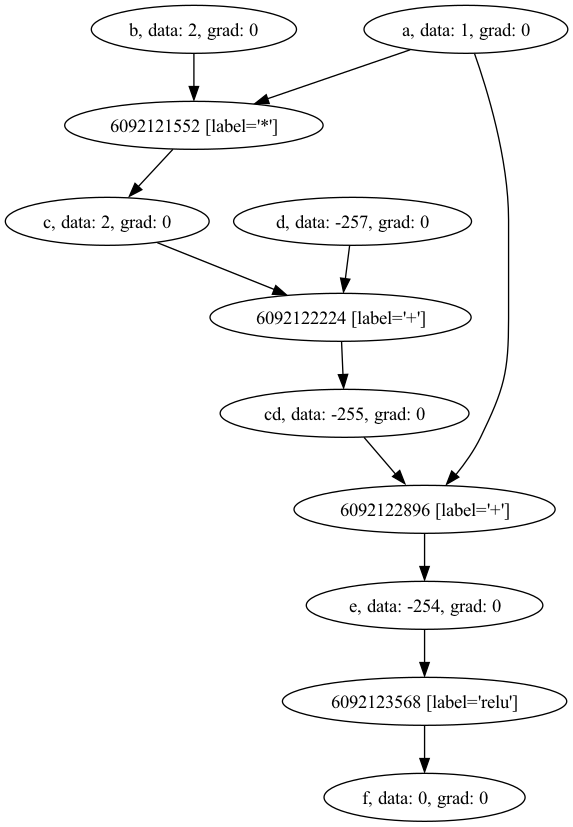
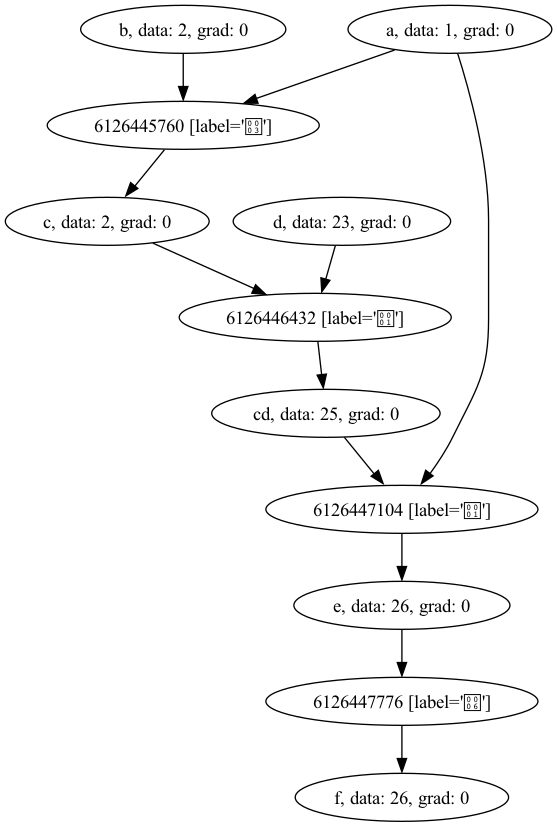
Add _backward func to each node with an operator, still need to test

diff --git a/Value.hpp b/Value.hpp
@@ -3,10 +3,20 @@
 
 using namespace std;
 
+enum Operator {
+    NONE,
+    ADD,
+    SUB,
+    MUL,
+    DIV,
+    POW,
+    RELU
+};
+
 class Value {
     public: 
-        Value(double data, string label, string op, vector<Value*> prev);
-        Value(double data, string op, vector<Value*> prev);
+        Value(double data, string label, Operator op, vector<Value*> prev);
+        Value(double data, Operator op, vector<Value*> prev);
         Value(double data, string label);
         Value(double data);
         friend ostream &operator<<(ostream &os, const Value &value);
@@ -24,38 +34,40 @@ class Value {
         // Value operator -(double const n);
         Value operator /(Value &obj);
         Value power(Value &obj);
-        Value power(double n);
+        // Value power(double n);
         Value relu();
     private:
-        void addBackward(Value &other, Value const &out);
-        void mulBackward(Value &other, Value const &out);
-        void subBackward(Value &other, Value const &out);
-        void powerBackward(Value &other, Value const &out);
-        void powerBackward(double const n, Value const out);
-        void reluBackward(Value const &out);
+        // void addBackward(Value &other, Value const &out);
+        // void mulBackward(Value &other, Value const &out);
+        // void subBackward(Value &other, Value const &out);
+        // void powerBackward(Value &other, Value const &out);
+        // // void powerBackward(double const n, Value const out);
+        // void reluBackward(Value const &out);
+        function<void()> _backward;
 };
 
-void Value::addBackward(Value &other, Value const &out) {
-    other.grad = 1.0 * out.grad;
-    this->grad = 1.0 * out.grad;
-}
-void Value::mulBackward(Value &other, Value const &out) {
-    other.grad = this->data * out.grad;
-    this->grad = other.data * out.grad;
-}
-void Value::subBackward(Value &other, Value const &out) {
-    other.grad = 1.0 * out.grad;
-    this->grad = 1.0 * out.grad;
-}
-void Value::powerBackward(double const n, Value const out) {
-    this->grad = (n) * pow(out.grad, n-1);
-}
-// this.data raised to other.data, producing out.data
-void Value::powerBackward(Value &other, Value const &out) {
-    this->grad = (other.data) * pow(this->data, other.data-1) * out.grad;
-    other.grad = pow(this->data, other.data) * log(this->data) * out.grad;
-}
 
-void Value::reluBackward(Value const &out) {
-    this->grad = out.data > 0 ? 1 : 0;
-}
+// void Value::addBackward(Value &other, Value const &out) {
+//     other.grad = 1.0 * out.grad;
+//     this->grad = 1.0 * out.grad;
+// }
+// void Value::mulBackward(Value &other, Value const &out) {
+//     other.grad = this->data * out.grad;
+//     this->grad = other.data * out.grad;
+// }
+// void Value::subBackward(Value &other, Value const &out) {
+//     other.grad = 1.0 * out.grad;
+//     this->grad = 1.0 * out.grad;
+// }
+// void Value::powerBackward(double const n, Value const out) {
+//     this->grad = (n) * pow(out.grad, n-1);
+// }
+// this.data raised to other.data, producing out.data
+// void Value::powerBackward(Value &other, Value const &out) {
+//     this->grad = (other.data) * pow(this->data, other.data-1) * out.grad;
+//     other.grad = pow(this->data, other.data) * log(this->data) * out.grad;
+// }
+
+// void Value::reluBackward(Value const &out) {
+//     this->grad = out.data > 0 ? 1 : 0;
+// }

diff --git a/Value.cpp b/Value.cpp
@@ -12,14 +12,14 @@ using namespace std;
 
 
 
-Value::Value(double data, string label, string op, vector<Value*> prev) {
+Value::Value(double data, string label, Operator op, vector<Value*> prev) {
     this->data = data;
     this->grad = 0;
     this->op = op; 
     this->prev = prev; // by value
     this->label = label; 
 }
-Value::Value(double data, string op, vector<Value*> prev) {
+Value::Value(double data, Operator op, vector<Value*> prev) {
     this->data = data;
     this->grad = 0;
     this->op = op;
@@ -48,7 +48,12 @@ string Value::getGraphName() {
 }
 
 Value Value::operator +(Value &obj) {
-    Value out = Value(this->data + obj.data, "+", vector<Value*>{this, (Value*) &obj});
+    Value out = Value(this->data + obj.data, ADD, vector<Value*>{this, (Value*) &obj});
+    
+    this->_backward = [this, &obj, out]() {
+        obj.grad = 1.0 * out.grad;
+        this->grad = 1.0 * out.grad;
+    };
 
     return out;
 }
@@ -56,35 +61,55 @@ Value Value::operator +(Value &obj) {
 //     return Value(this->data + n);
 // }
 Value Value::operator *(Value &obj) {
-    return Value(this->data * obj.data, "*", vector<Value*>{this, (Value*) &obj});
+    Value out = Value(this->data * obj.data, MUL, vector<Value*>{this, (Value*) &obj});
+    this->_backward = [this, &obj, out]() {
+        obj.grad = this->data * out.grad;
+        this->grad = obj.data * out.grad;
+    };
+    return out;
 }
 // Value Value::operator *(double const n) {
 //     return Value(this->data * n);
 // }
 Value Value::operator -(Value &obj) {
-    return Value(this->data - obj.data, "-", vector<Value*>{this, (Value*) &obj});
+    Value out = Value(this->data - obj.data, SUB, vector<Value*>{this, (Value*) &obj});
+    this->_backward = [this, &obj, out]() {
+        obj.grad = 1.0 * out.grad;
+        this->grad = 1.0 * out.grad;
+    };
+    return out;
 }
 // Value Value::operator -(double const n) {
 //     return Value(this->data - n);
 // }
 Value Value::operator /(Value &obj) {
     Value l = *this;
-    Value r = obj.power(1.0);
+    Value tmp = Value(-1.0);
+    Value r = obj.power(tmp);
     // return (*this) * obj.power(1.0); // why does this throw a compiler error but line below does not?
     return l * r;
 }
 
 
 Value Value::power(Value &obj) {
-    return Value(pow(this->data, (double) obj.data), "pow", vector<Value*>{this, (Value*) &obj});
+    Value out = Value(pow(this->data, (double) obj.data), POW, vector<Value*>{this, (Value*) &obj});
+    this->_backward = [this, &obj, out]() {
+        this->grad = (obj.data) * pow(this->data, obj.data-1) * out.grad;
+        obj.grad = pow(this->data, obj.data) * log(this->data) * out.grad;
+    };
+    return out;
 }
 
-Value Value::power(double const n)  {
-    return Value(pow(this->data, (double) n));
-}
+// Value Value::power(double const n)  {
+//     return Value(pow(this->data, (double) n));
+// }
 
 Value Value::relu() {
-    return Value(this->data > 0 ? this->data : 0, "relu", vector<Value*>{this});  
+    Value out = Value(this->data > 0 ? this->data : 0, RELU, vector<Value*>{this}); 
+    this->_backward = [this, out]() {
+        this->grad = out.data > 0 ? 1 : 0;
+    };
+    return out;
 }
 
 
